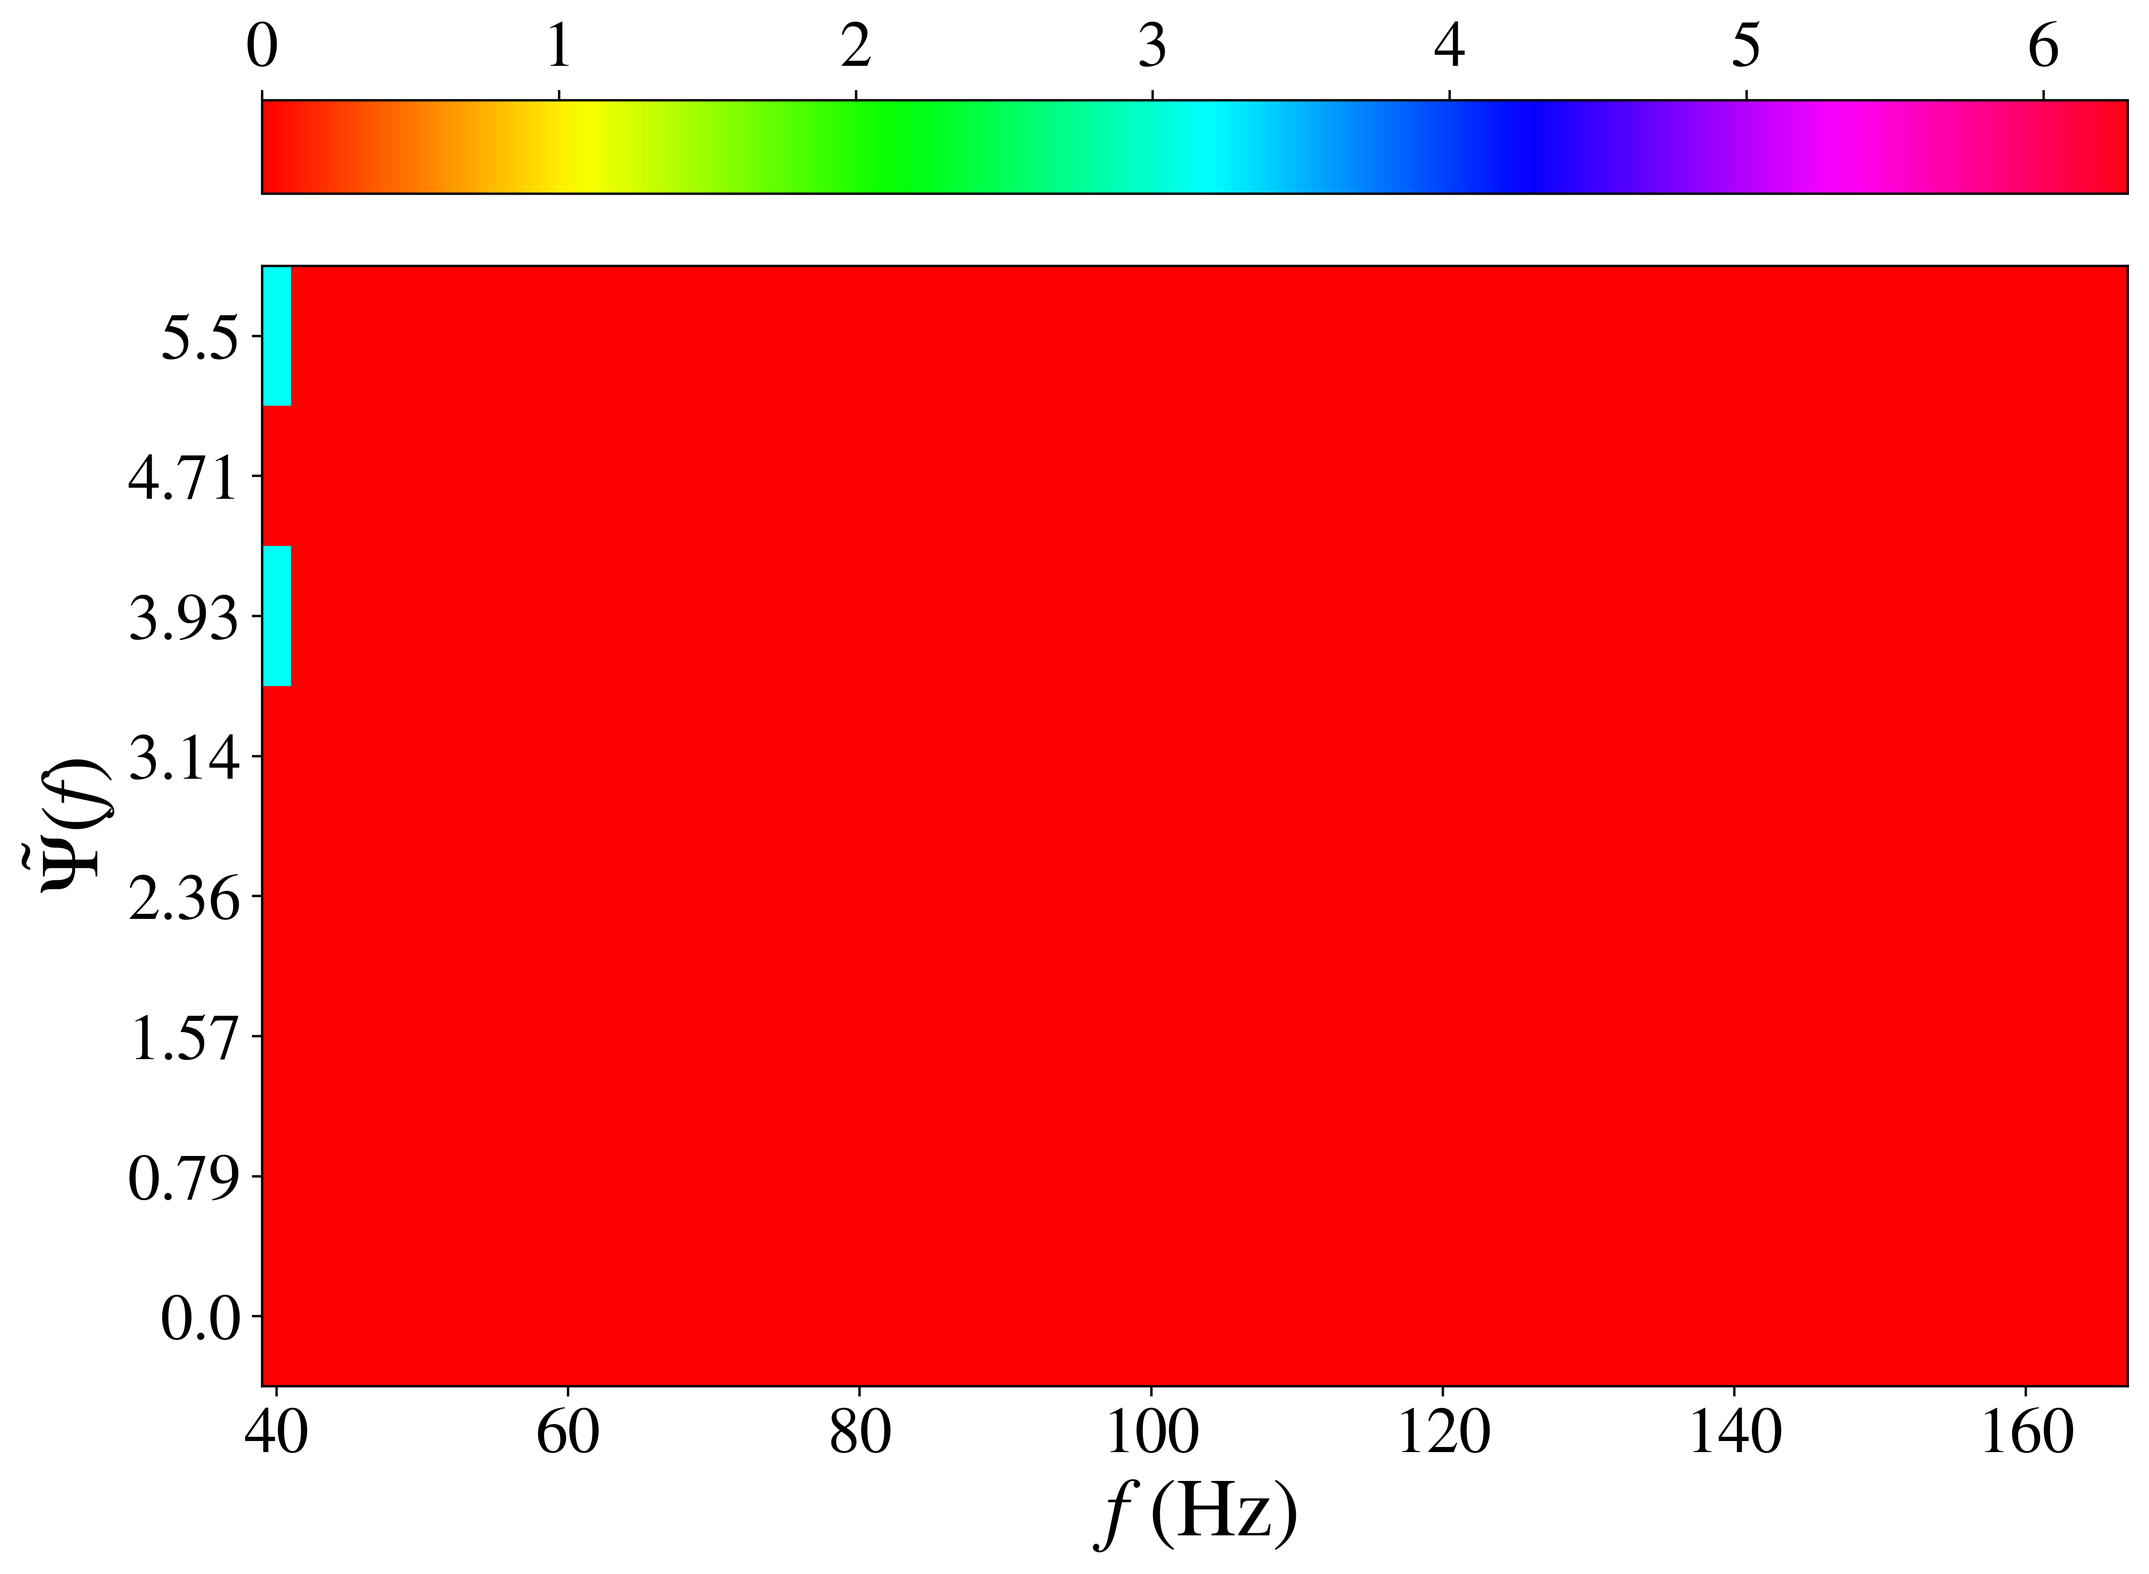
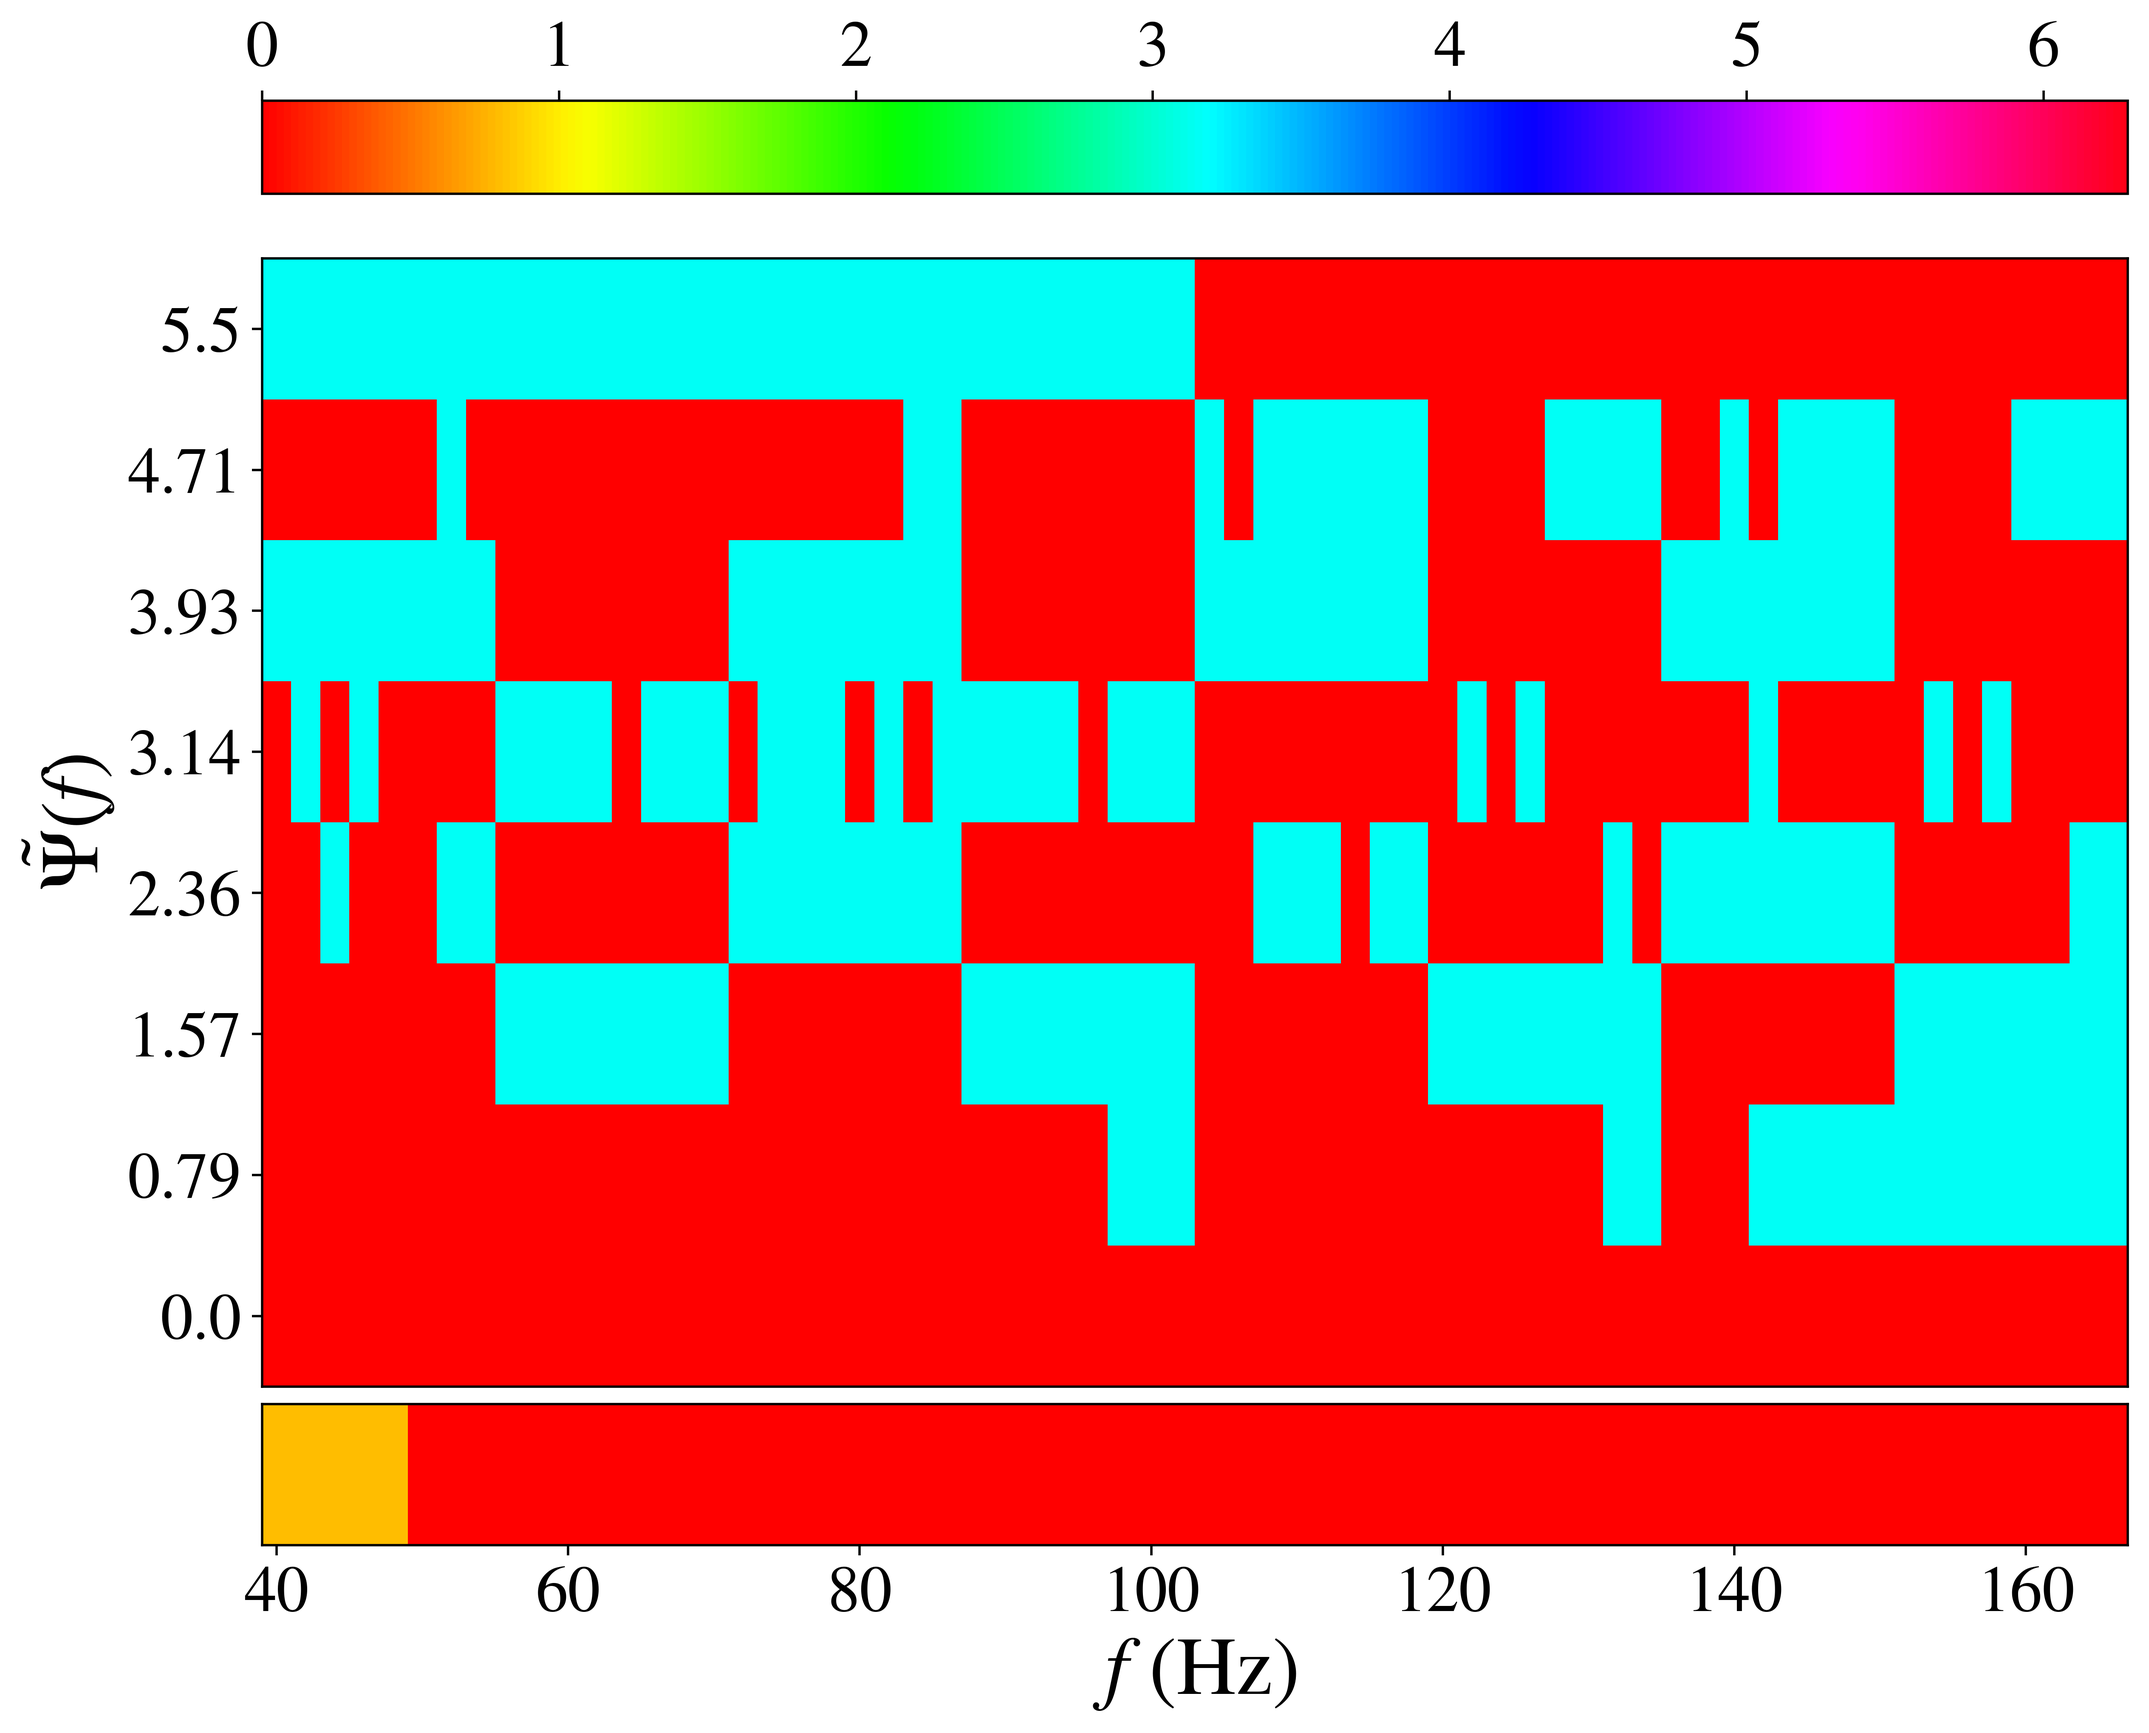
slowly bringing back delta

diff --git a/pqcprep/tools.py b/pqcprep/tools.py
@@ -200,9 +200,9 @@ def train_QNN(n,m,L, seed, epochs, func,func_str,loss_str,meta, recover_temp, ni
     qnn = SamplerQNN(
                     circuit=qc.decompose(),           
                     sampler=Sampler(options={"shots": 10000, "seed": algorithm_globals.random_seed}),
-                    input_params=[], #qc.parameters[:n],   ## UNDO LATER !!
-                    weight_params=qc.parameters, #qc.parameters[n:],  ## UNDO LATER !!
-                    input_gradients=False #True
+                    input_params=qc.parameters[:n], 
+                    weight_params=qc.parameters[n:],
+                    input_gradients=True
                 )
               
     # choose initial weights
@@ -223,7 +223,7 @@ def train_QNN(n,m,L, seed, epochs, func,func_str,loss_str,meta, recover_temp, ni
         else:
             initial_weights =rng.normal(0,1/np.sqrt(n+m),len(qc.parameters[n:])) #np.zeros(len(qc.parameters))  
     else:
-        initial_weights =rng.normal(0,1/np.sqrt(n+m),len(qc.parameters)) #rng.normal(0,1/np.sqrt(n+m),len(qc.parameters[n:])) ## REDO LATER !!!
+        initial_weights =rng.normal(0,1/np.sqrt(n+m),len(qc.parameters[n:])) #rng.normal(0,1/np.sqrt(n+m),len(qc.parameters[n:])) 
            
     # initialise TorchConnector
     model = TorchConnector(qnn, initial_weights)
@@ -276,8 +276,7 @@ def train_QNN(n,m,L, seed, epochs, func,func_str,loss_str,meta, recover_temp, ni
             target_arr[int(k)]=1
 
         ## DELETE THIS LATER !!!
-        target_arr = target_arr / (2.**n) 
-        input = Tensor([]) 
+        target_arr = target_arr / (2.**n)  
         target=Tensor(target_arr)
         
     else:        
@@ -314,7 +313,9 @@ def train_QNN(n,m,L, seed, epochs, func,func_str,loss_str,meta, recover_temp, ni
             target_arr[index]=1 
             target=Tensor(target_arr)
         else:
-            note = "UNDO THIS LATER!!"
+            coeffs=np.pi / 2 * np.ones(n)
+            input=Tensor(coeffs)
+
             """
             # generate random coefficients 
             coeffs = np.array(np.pi / 2 * (1+delta *(2 *rng.random(size=n)-1)))
@@ -365,10 +366,8 @@ def train_QNN(n,m,L, seed, epochs, func,func_str,loss_str,meta, recover_temp, ni
         with no_grad():
             generated_weights = model.weight.detach().numpy()   
         if train_superpos:
-            # DELETE LATER 
-            #input_params = coeffs
-            #params=np.concatenate((input_params, generated_weights))  
-            params=generated_weights 
+            input_params = coeffs
+            params=np.concatenate((input_params, generated_weights))  
         else:
             input_params = binary_to_encode_param(dec_to_bin(x_arr[i],n,'unsigned mag',nint=nint))
             params = np.concatenate((input_params, generated_weights))   

diff --git a/encode.py b/encode.py
@@ -14,8 +14,8 @@ weights_phase ="pqcprep/outputs/weights_6_3(0)_6_600_psi_SAM_0.0_test(S)(PR)(r)_
 repeat_params=None
 psi_mode="psi"
 
-operators="Q"
-no_UA=True
+operators="QRQ"
+no_UA=False
 
 n = 6
 weights_ampl = "pqcprep/ampl_outputs/weights_6_3_600_x76_MM_40_168_zeros.npy" 
@@ -29,14 +29,14 @@ pdf = False # save outputs as pdf
 delta_round =True #calculate difference from rounded version 
 
 no_A = True # don't produce amplitude plot 
-no_p = True # don't produce phase plot 
+no_p = False # don't produce phase plot 
 no_h = True # don't produce h plot
 
 no_full_A = False # don't produce full amplitude plot
 no_full_p = False # don't produce full phase plot
 no_full_3D= False # don't produce full 3D plot
 
-comp_full = False
+comp_full = True
 
 # additional plots 
 A_L_comp = False 

diff --git a/pqcprep/pqc_tools.py b/pqcprep/pqc_tools.py
@@ -530,14 +530,10 @@ def generate_network(n,m,L, encode=False, toggle_IL=True, initial_IL=True, input
         circuit.compose(digital_encoding(n), input_register, inplace=True)
 
     if input_Ry:
-        circuit.h(input_register)  
-        ## DELETE THIS LATER 
-        """
         input_Ry_params = ParameterVector("\u03B8_input_Ry",n)
 
         for i in np.arange(n):
             circuit.ry(input_Ry_params[i], input_register[i])
-        """
          
     if initial_IL: 
         # apply input layer 
